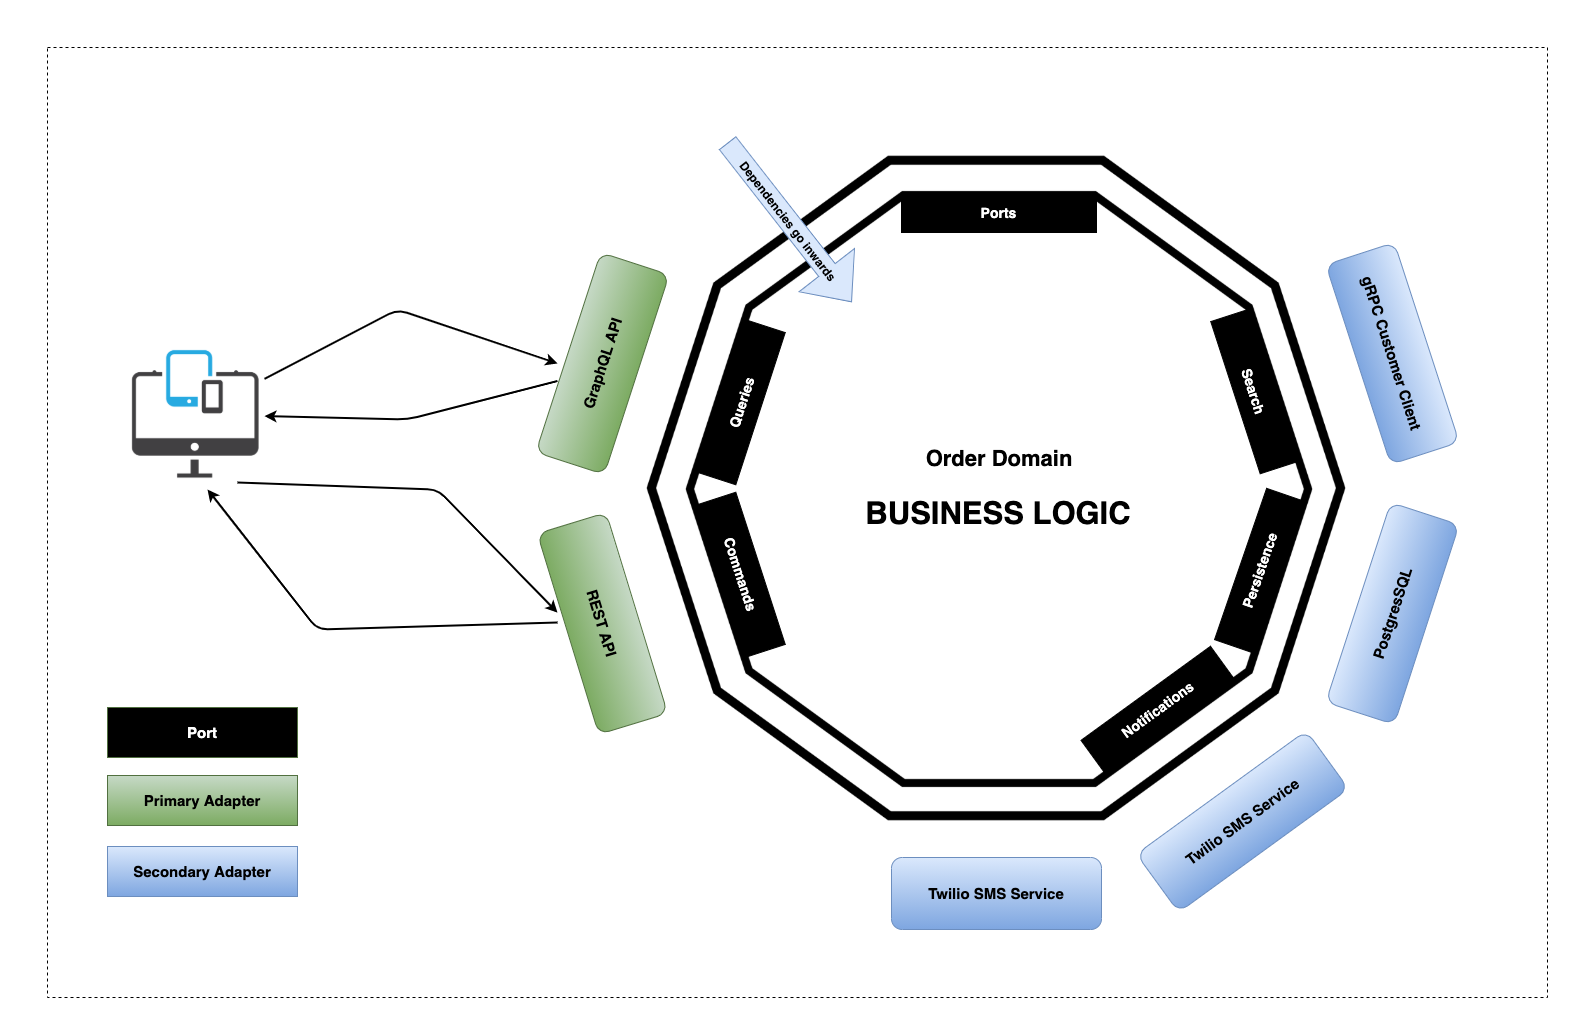
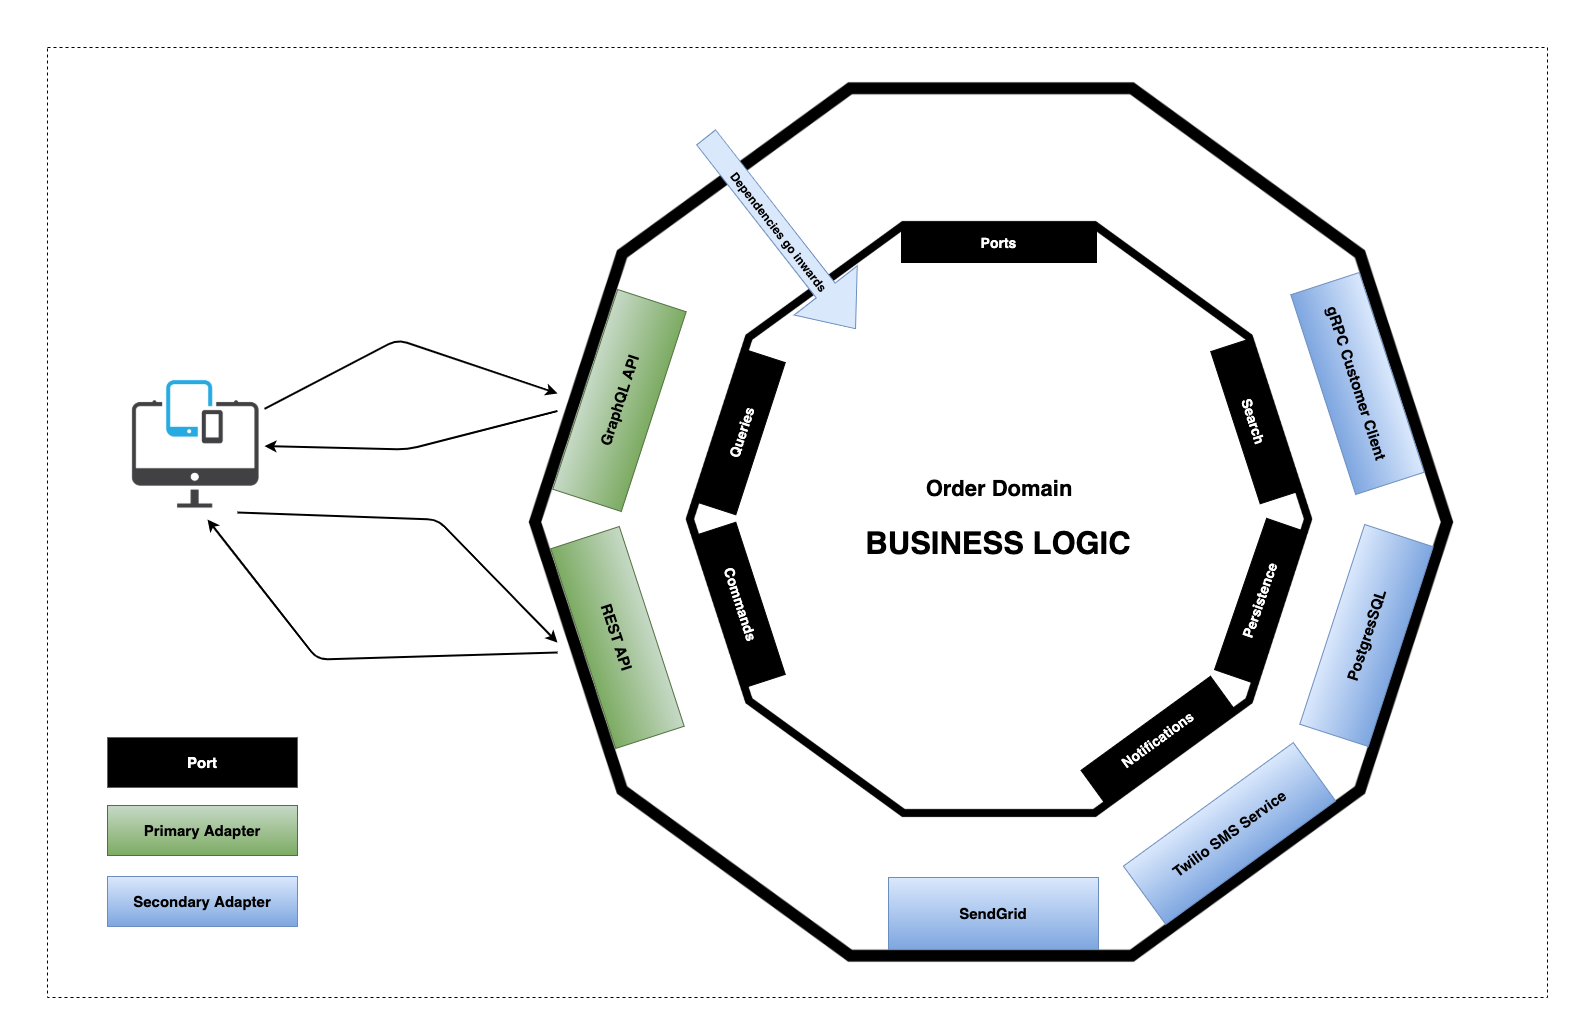
Updated readme and adjusted application diagram

diff --git a/Readme.md b/Readme.md
@@ -4,6 +4,17 @@ This repository demonstrates my Hexagonal architecture implementation in Java/Sp
 
 ## Table of Content
 
+- [Ports & Adapters Pattern](#ports--adapters-pattern)
+- [Order Service](#order-service)
+  * [Application Diagram](#application-diagram)
+- [Project package structure](#project-package-structure)
+- [Getting Started](#getting-started)
+  * [Prerequisite](#prerequisite)
+  * [Installation](#installation)
+- [Important Endpoints](#important-endpoints)
+- [References](#references)
+- [License](#license)
+
 ## Ports & Adapters Pattern
 
 > Allow an application to equally be driven by users, programs, automated test or batch scripts, and to be developed and tested in isolation from its eventual run-time devices and databases.
@@ -43,6 +54,7 @@ Order Service is a simple microservice that allows customers to manage orders vi
 |   +-- sendgrid # fake Sendgrid adapter.
 |   +-- twilio # fake Twilio adapter.
 ```
+*** *One of many ways to structure your packages, always discuss and agree inside Your team;)*
 
 ## Getting Started
 
